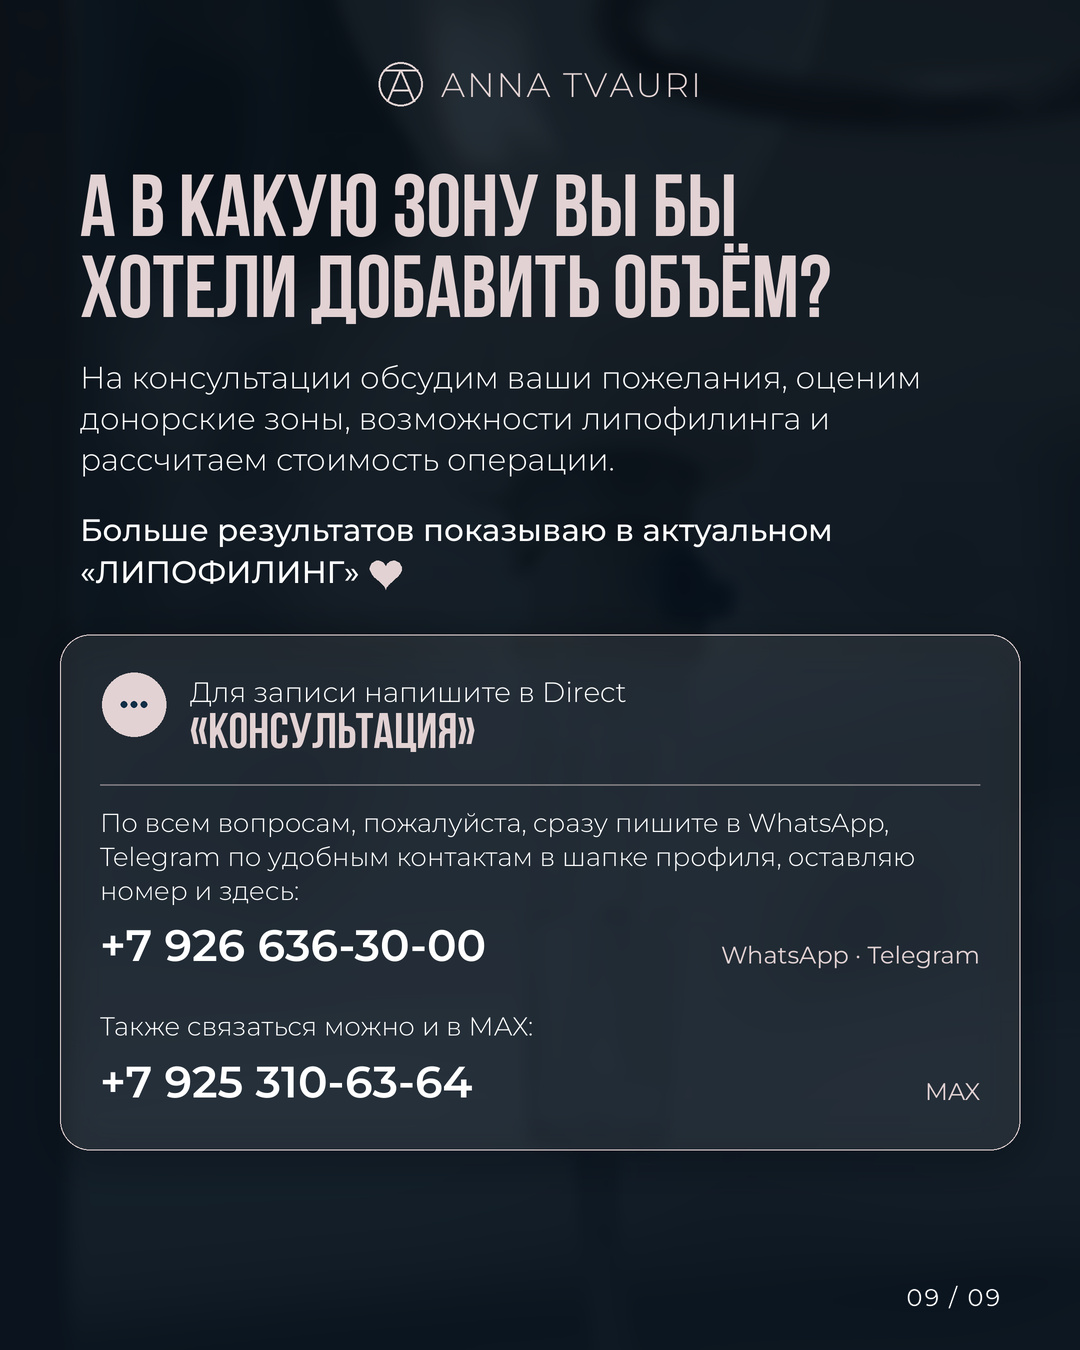
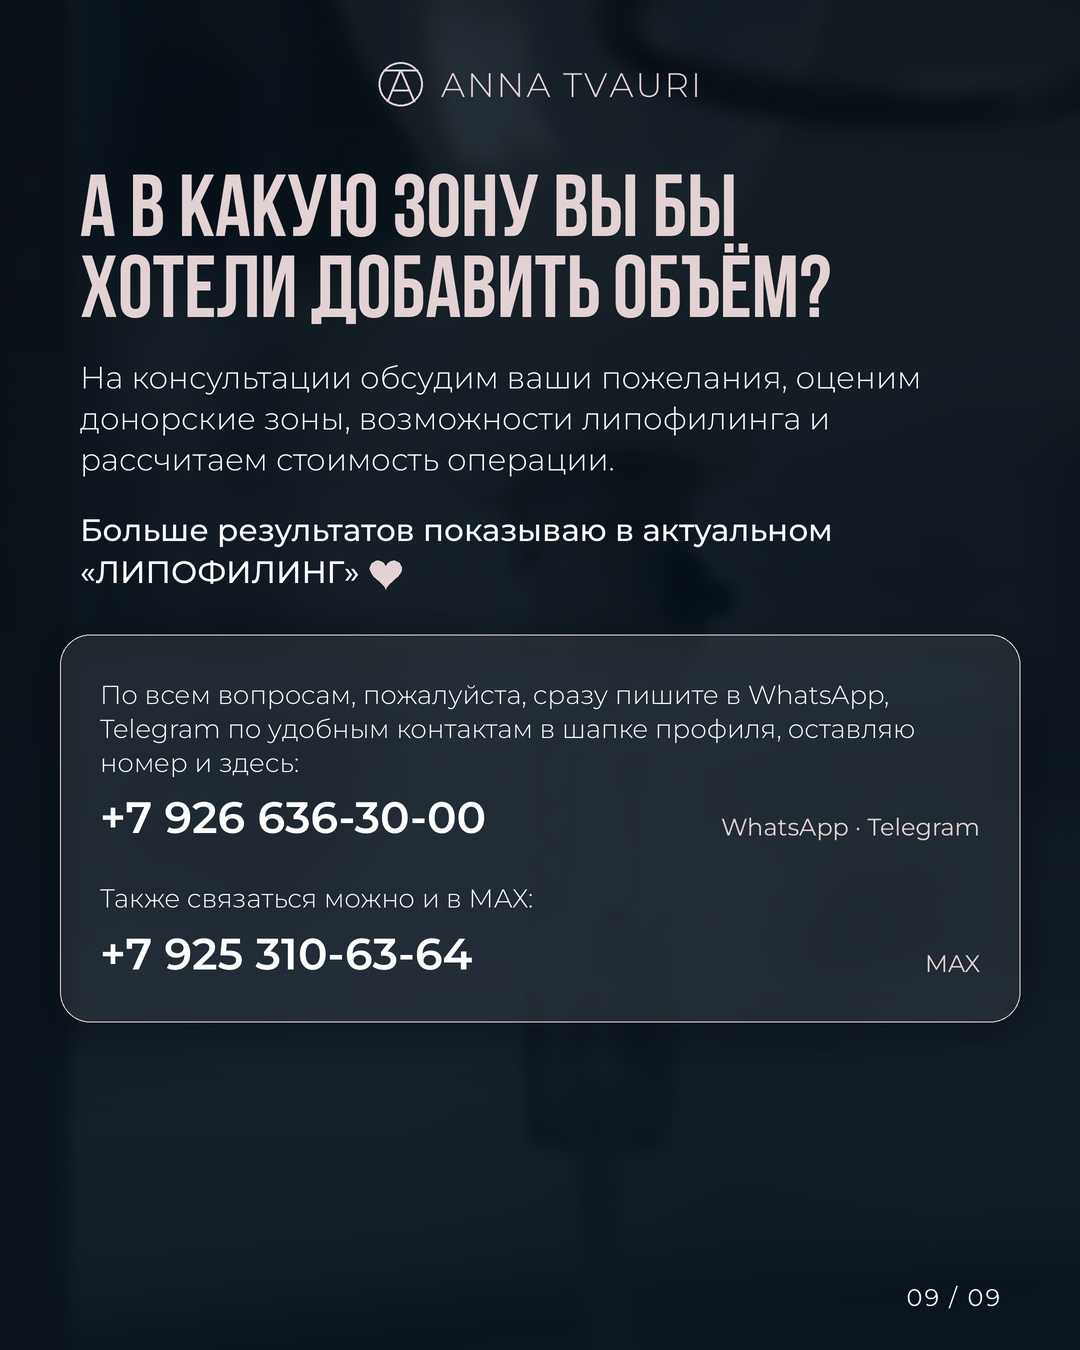
Lipofilling carousel slide 9: Direct line removed from the contact card
Claude-Session: https://claude.ai/code/session_01DLYcpYAewhkUMdYYshxueL

diff --git a/tools/post_lipofilling_9.py b/tools/post_lipofilling_9.py
@@ -301,19 +301,15 @@ def s9():
     for i, r in enumerate(rows): sl.text((hx, y + i * 42), r, f, WHITE)
     heart(sl, hx + f.getlength(rows[-1]) / S + 26, y + (len(rows) - 1) * 42 + 20, 16)
     y += len(rows) * 42 + 40
-    # contact card: Direct, then the WhatsApp/Telegram number and the separate MAX number
+    # contact card: the WhatsApp/Telegram number and the separate MAX number
     x, y0 = 100, y
     t1 = ("По всем вопросам, пожалуйста, сразу пишите в WhatsApp, Telegram по удобным контактам "
           "в шапке профиля, оставляю номер и здесь:")
     n1 = len(wrap(t1, mont(26, 300), 840))
-    y_t1 = y0 + 172; y_p1 = y_t1 + n1 * 26 * 1.3 + 10
+    y_t1 = y0 + 44; y_p1 = y_t1 + n1 * 26 * 1.3 + 10
     y_t2 = y_p1 + 92; y_p2 = y_t2 + 26 * 1.32 + 10
     box = (60, y0, 1020, int(y_p2 + 96))
     sl.shadow(box, 30, 20, 110); sl.rrect(box, 30, WHITE, 22, outline=POWDER, w=1.2)
-    icon_circle(sl, (x + 34, y0 + 70), "chat", 32)
-    sl.text((x + 90, y0 + 40), "Для записи напишите в Direct", mont(28, 300), WHITE)
-    sl.text((x + 90, y0 + 76), "«КОНСУЛЬТАЦИЯ»", bebas(50), POWDER)
-    sl.poly([(box[0] + 40, y0 + 150), (box[2] - 40, y0 + 150)], POWDER, 1, 120)
     para(sl, x, y_t1, t1, 26, 300, WHITE, 840, 1.3)
     sl.text((x, y_p1), "+7 926 636-30-00", mont(44, 600), WHITE)
     sl.text((box[2] - 40, y_p1 + 22), "WhatsApp · Telegram", mont(24, 400), POWDER, "ra")
